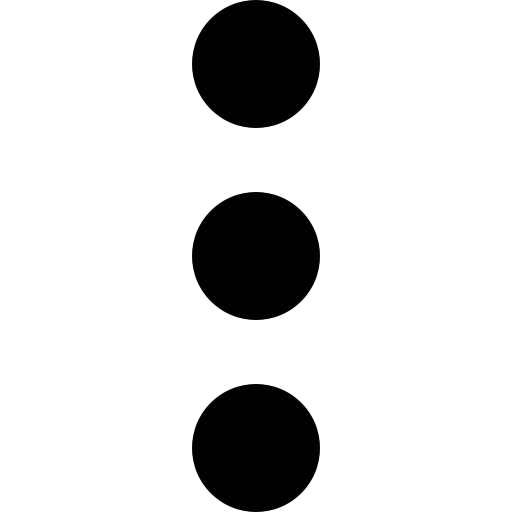
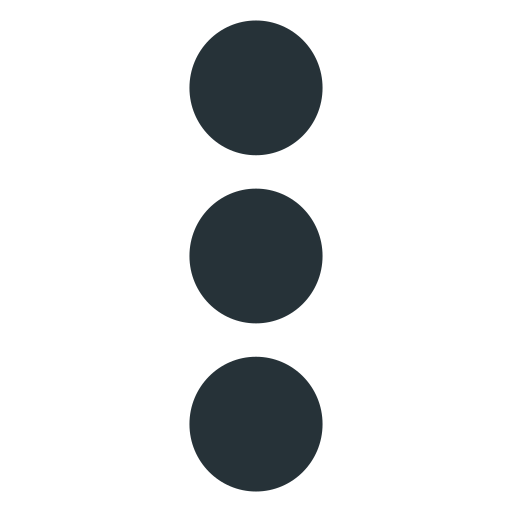
estilos de post

Changed region(s): [[0.3438, 0.6875, 0.6562, 1.0], [0.3438, 0.0, 0.6562, 0.3125], [0.3438, 0.3438, 0.6562, 0.6562]]

diff --git a/src/style.css b/src/style.css
@@ -59,8 +59,8 @@ input {
   border-radius: 8px;
   border: none;
 }
-/* 
-button {
+
+/* button {
   width: 100%;
   height: 2em;
   font-family: "Roboto Slab", serif;
@@ -73,12 +73,6 @@ button {
   cursor: pointer;
   margin-top: 2em;
 } */
-
-#buttonCrearPost,
-#selectPublic {
-  width: 18%;
-  margin: 0 3% 0 3%;
-}
 
 figure {
   position: absolute;
@@ -384,13 +378,7 @@ select {
   border-top: 1px solid var(--color-primario); 
 
 }
-/******** POST **********/
-#post-container{
-  background-color: rgb(159, 214, 159);
-  width: 100%;
-  padding: 2em;
-  
-}
+
 /****************** CREAR POST ************************************/
 .containerCrearPost{
   padding: 1.5em 2em 1.5em 2em; 
@@ -401,6 +389,13 @@ select {
   background-color: #fff; 
   border-radius: 1em 1em 0 0 ;
 }
+.box-cPost{
+  box-shadow: 0 1px 2px var(--color-cuaternario);
+  border-radius: 1em;
+  padding-bottom: 0;
+  margin-bottom: 0;
+}
+
 .imgUserPost{
   width: 5em;
   border-radius: 100px 100px 100px 100px;
@@ -413,7 +408,97 @@ select {
 }
 #idPostTextarea:focus{
   outline:none;
-} 
+}
+
+/* esconder el input file y mostrar la img */
+.file {
+  padding-left: 6em;
+}
+.file > input{
+  display: none;
+}
+.file  img{
+    width: 2.5em;
+    cursor: pointer;
+}
+/* footer de crear post */
+.divFinalCrearPost{
+  width: 100%;
+  display: flex;
+
+}
+.public{
+  width: 100%;
+  height: 40%;
+  padding-right: .5em;
+}
+
+.public #status{
+    font-size: 16px;
+    border: none;
+    outline: none;
+    background: none;
+    appearance: none; 
+    cursor: pointer;
+    padding: 0;
+    margin: 0;
+    padding-top: .7em;
+
+}
+#buttonCrearPost{
+  background-color: var(--color-primario);
+  border: none;
+  width: 10em;
+  height: 3em;
+  border-radius: 8px;
+  cursor: pointer;
+  color: #ffffff;
+  font-family: 'Roboto Slab', serif;
+  
+}
+#buttonCrearPost:hover{
+  background-color:#e09f9f;
+  
+}
+/***************** MOSTRAR POST****************/
+/******** POST **********/
+#post-container{
+  background-color: #ffffff;
+  width: 100%;
+  padding: 0 2em 2em 2em;
+  
+}
+.viewPost{
+  margin-bottom: 2em;  
+}
+.imgPostv{
+  width: 3em;
+}
+.postByUser {
+  padding-bottom: 1em;
+  display: flex;
+}
+
+.post-span{
+  font-size: .8em;
+  font-weight: lighter;
+}
+.box-postView p{
+  font-size: 1em;
+  font-family: inherit;
+  padding-bottom: 0.5em;
+}
+.box-postView img{
+  width: 100%;
+}
+/* Icon delete and update */
+.idUser-postEdit{
+  background-color: green;
+
+}
+.icon-edit{
+  background-color: rebeccapurple;
+}
 
 /****************** MEDIA QUERIES ************************************/
 
@@ -428,6 +513,13 @@ select {
   }
   #modalPadre {
     left: 35%;
+  }
+  .containerAside{
+    display: none;
+  }
+  .containerCrearPost{
+    width: 100%;
+    padding: 0;
   }
 }
 
@@ -479,4 +571,11 @@ select {
   /*div:nth-child(2){
     display: none;
   }*/
+  .containerAside{
+    display: none;
+  }
+  .containerCrearPost{
+    width: 100%;
+    padding: 0;
+  }
 }

diff --git a/src/view/crearPost.js b/src/view/crearPost.js
@@ -9,6 +9,7 @@ const userDate = objectsLocalStorage();
 export default () => {
   const crearPostTemplate = `
         <div id="create-post" class="padd-15">
+          <div class="padd-05 box-cPost">
               <div  id="MainPost" class="flex-direction">
                 <div>                
                   <img class="imgUserPost" src="${userDate.imgUsuario}" alt="foto de perfil del usuario" >                  
@@ -17,17 +18,32 @@ export default () => {
                 placeholder = "¿Quieres contarnos algo...? "rows="4" cols="30"></textarea>    
               </div>
             
-              <div class="size-70" >  
-                <div class="imgFile"></div>          
-                <div class="public flex-direction row-end" >                                     
+              <div class="flex-direction divFinalCrearPost">  
+                <div class="imgFile">          
+                  <div class="file">
+                    <label for="cargarImg">
+                      <img id="imgPost" for="cargarImg" class="imgUserPost" src="../imagenes/galeria.png">                   
+                    </label>
+                    <input  id="cargarImg" type="file">
+                  </div>
+              
+                  <div>
+                    <img id = "imgLoad" src="" height="50">
+                  </div>                 
+                </div>  
+
+                <div class="public flex-direction row-end" >
+                                                       
                     <select id="status">
                       <option value="&#127758"> &#127758; Público</option>
                       <option value="&#128274"> &#128274; Privado </option>
                     </select>                 
                     <button id="buttonCrearPost">Publicar</button>
-                    <button>Cancelar</button>                  
+                 
                 </div>
-              </div>  
+                
+              </div> 
+          </div> 
         </div>
         <div id = "post-container"></div>                   
           `;
@@ -39,11 +55,6 @@ export default () => {
 };
 
 export const crearPost = (idButton) => {
-  const imgFile = document.querySelector('.imgFile');
-  imgFile.innerHTML = `
-    <input id="cargarImg" type="file">
-    <img id = "imgLoad" src="" height="200" alt="Image preview..."  >
-  `;
   const idButtonPost = document.getElementById(idButton);
 
   const inputImg = document.getElementById('cargarImg');

diff --git a/src/view/postCollection.js b/src/view/postCollection.js
@@ -17,25 +17,46 @@ function TemplateViewPost(
   time,
 ) {
   const viewPostTemplate = `
-      <div class = "postByUser" id='${idPost}'>
-        <img src="${userImg}" width="50px">
-        <h4>${userName}  </h4>
-        <span> ${time}</span>
-        <span> ${status}</span>
+    <div class="padd-15 box-cPost viewPost">
+      <div class = "flex-direction  postByUser" id='${idPost}'>
+        <img class ="imgUserPost imgPostv" src="${userImg}">
+        <div class="group">
+          <h4>${userName}  </h4>
+          <div>
+            <span> ${status}</span>
+            <span class="post-span"> ${time}</span>
+          </div>          
+        </div>
+        <div class = "idUser-postEdit" id = '${idUser}' data-id = "${idPost}">
+        </div>                 
       </div>
-      <div class = "idUser-postEdit" id = '${idUser}' data-id = "${idPost}"></div>
+
+      <div class="box-postView">
         <p> ${contentPost} </p>   
-        <img src='${urlImg}' width="300px">
-        <button id="countLike">❤ Like</button>
+        <img src='${urlImg}'>
+       
+      </div>
+      <div class="padd-05">
+        <button id="countLike">❤ Me gusta</button>
+        <button id="countLike">✉  Comentar</button>   
+      </div>
+      
       <div id="containerDelete"></div>
-      <dialog id="modalUpdatePost" class="row-center"></dialog>`;
+      <dialog id="modalUpdatePost" class="row-center"></dialog>
+    </div>`;
   return viewPostTemplate;
 }
 
 function EditDeletTemplate(idPost) {
-  const template = `   
+  const template = ` 
+  <span class="icon-edit">
+    <i class="fa fa-ellipsis-v"></i>
+  </span>  
+  <div >
       <button id = "update-post" data-id = ${idPost}>Editar</button>
       <button class = "delete-post" data-id = ${idPost}>Eliminar</button>  
+    </div>  
+      
   `;
   return template;
 }

diff --git a/src/view/aside.js b/src/view/aside.js
@@ -1,5 +1,7 @@
 import { objectsLocalStorage } from '../firebase/funcionesLocalStorage.js';
 // <img src="../imagenes/galeria.png" alt="imagen de galeria"  width ="30px"  >
+/* eslint-disable no-use-before-define */
+import { getUser } from '../firebase/funcionesFirestore.js';
 
 const userDate = objectsLocalStorage();
 
@@ -26,11 +28,8 @@ export default () => {
 
                 <div class="padd-05 box-label border-top">
                   <h4 class="padd-05">Amigos</h4> 
-                  <div class="padd-05 flex-direction" >
-                    <img  src="../imagenes/usuario.png" alt="foto de perfil del usuario" width="50px">
-                    <div class="padd-05">
-                      <spam>${userDate.name}</spam>
-                      </div>
+                  <div class="padd-05 flex-direction" id="content-user" >
+                    
                   </div>
                 </div>
                 
@@ -45,3 +44,26 @@ export default () => {
 
   return crearPostElement;
 };
+
+export const mostrarUser = async () => {
+  // const likes = countLike('countLike');
+  const contenedorPost = document.getElementById('content-user');
+  getUser((querySnapshot) => {
+    let postViewContent = '';
+    querySnapshot.forEach((doc) => {
+      const data = doc.data();
+      console.log(data.imgUsuario, data.name);
+      postViewContent += TemplateViewUser(data.imgUsuario, data.name);
+    });
+    contenedorPost.innerHTML = postViewContent;
+  });
+};
+
+function TemplateViewUser(userName, userImg) {
+  const viewPostTemplate = `
+  <img  src="${userImg}" alt="foto de perfil del usuario" width="50px">
+  <div class="padd-05" >
+    <spam>${userName}</spam>
+    </div>`;
+  return viewPostTemplate;
+}

diff --git a/src/view-controller/router.js b/src/view-controller/router.js
@@ -3,6 +3,7 @@ import { registroCorreo } from '../view/register.js';
 import { iniciarSesion } from '../view/login.js';
 import { crearPost } from '../view/crearPost.js';
 import { cerrarSesion } from '../view/home.js';
+import { mostrarUser } from '../view/aside.js';
 
 const changeView = (route) => {
   const container = document.getElementById('container');
@@ -34,6 +35,7 @@ const changeView = (route) => {
       header.appendChild(components.headerNet());
       cerrarSesion('btnCerrarSesion');
       container.appendChild(components.aside());
+      mostrarUser();
       container.appendChild(components.createPost());
       crearPost('buttonCrearPost');
       // mostrarPost('post-container');

diff --git a/src/firebase/funcionesFirestore.js b/src/firebase/funcionesFirestore.js
@@ -27,6 +27,7 @@ export const getUserBD = (uid) => {
   return dataUser;
 };
 
+
 export const createPost = async (idUser, contentPost, urlImg, userName, userImg, status) => {
   await addDoc(collection(db, 'post'), {
     idUser,
@@ -42,6 +43,12 @@ export const createPost = async (idUser, contentPost, urlImg, userName, userImg,
 //  jalar datos desde firestore de los post
 export const getPostBD = (documento) => {
   const dataPost = onSnapshot(collection(db, 'post'), (documento));
+  return dataPost;
+};
+
+//  jalar datos desde firestore de los post
+export const getUser = (documento) => {
+  const dataPost = onSnapshot(collection(db, 'users'), (documento));
   return dataPost;
 };
 

diff --git a/src/view/datePost.js b/src/view/datePost.js
@@ -12,7 +12,7 @@ export const dateTime = () => {
 
   const date = new Date().toLocaleDateString('es-Es', datePost);
   const time = new Date().toLocaleTimeString('es-Es', timePost);
-  const dateTimeActual = `${date} ${time}`;
+  const dateTimeActual = `${date} - ${time}`;
 
   return dateTimeActual;
 };

diff --git a/src/index.html b/src/index.html
@@ -15,6 +15,8 @@
     
     <!-- FUENTES DE ICONS -->
     <link href="https://fonts.googleapis.com/icon?family=Material+Icons" rel="stylesheet">
+    <link rel="stylesheet" href="https://cdnjs.cloudflare.com/ajax/libs/font-awesome/4.7.0/css/font-awesome.min.css">
+
 
     <title>Pets</title>
   </head>
